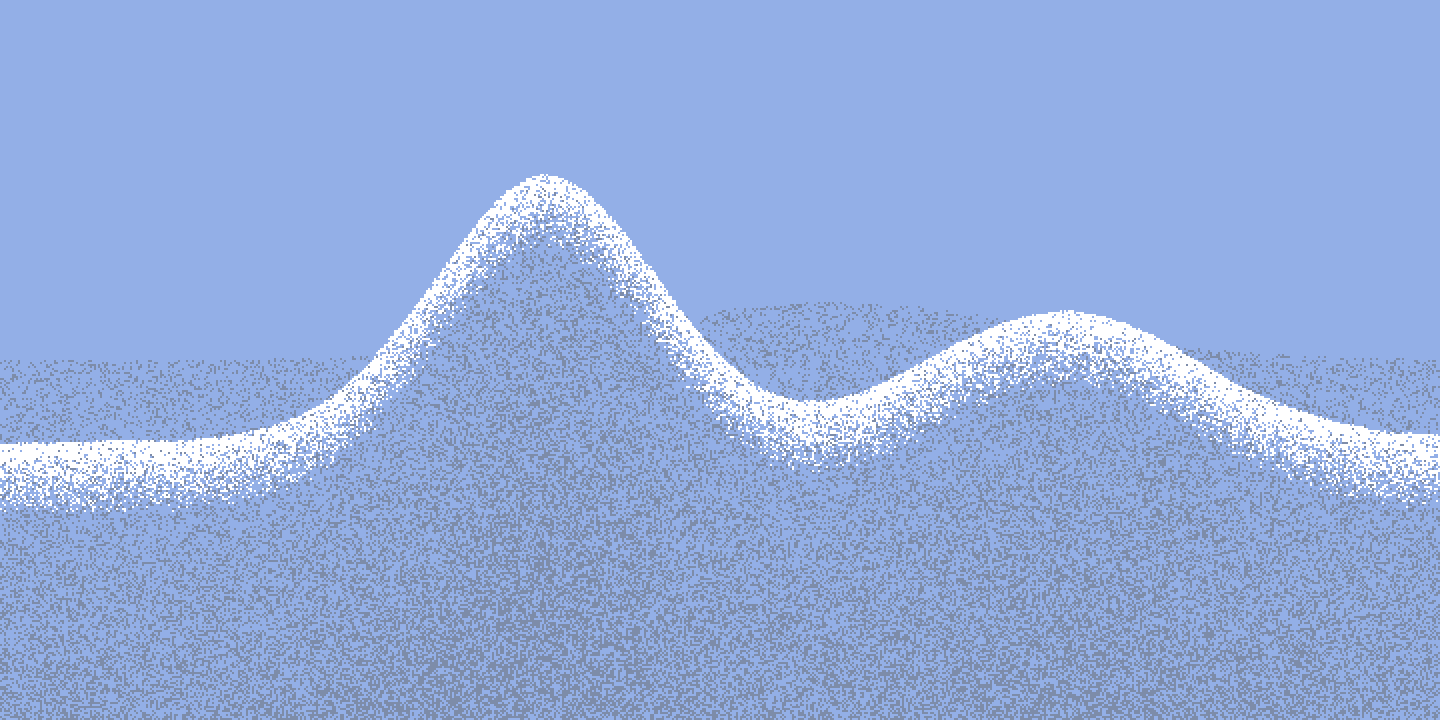
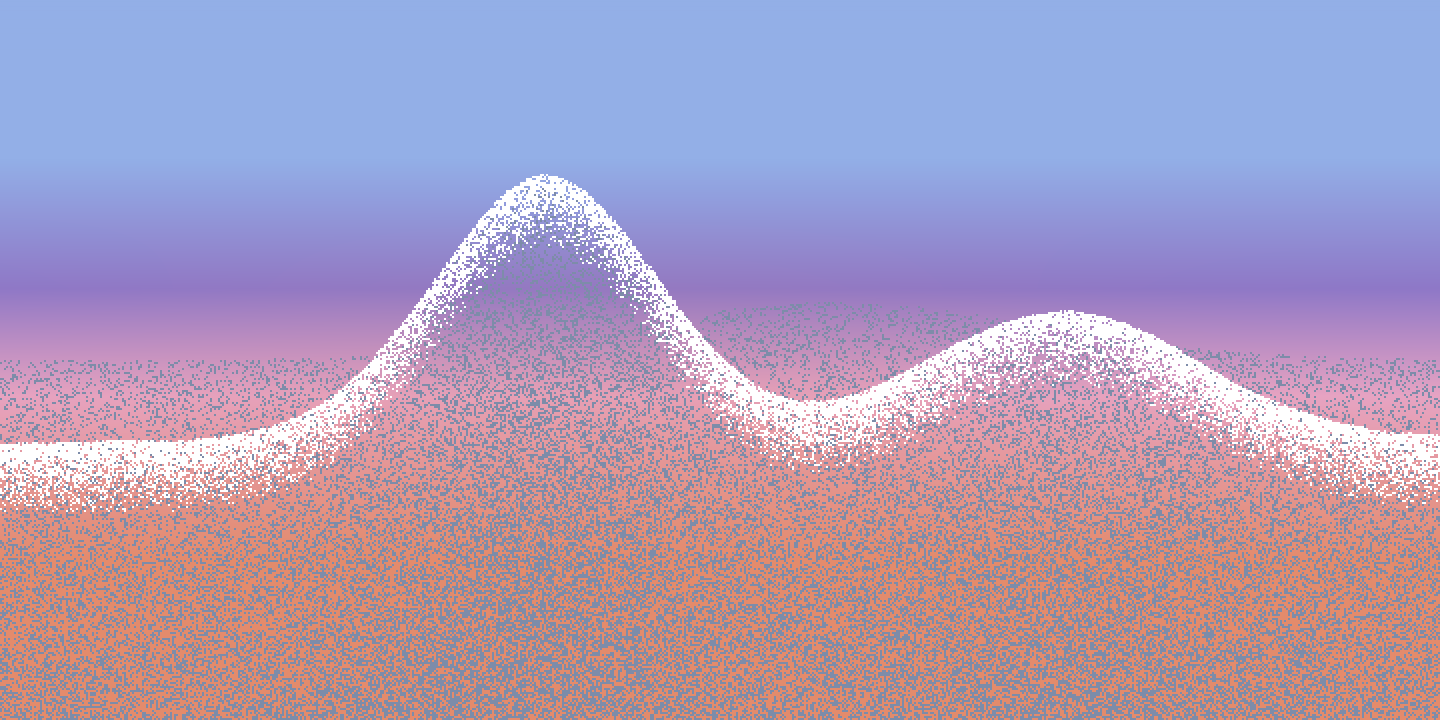
Blend the mountain sky from blue into dusk.
The top stays the same blue so the white logo still reads. Purple, pink, and orange come in toward the horizon behind the peaks.

diff --git a/design-language/instrument-calm/assets/ambient-dither/make_ambient.py b/design-language/instrument-calm/assets/ambient-dither/make_ambient.py
@@ -40,6 +40,27 @@ def paint(field, layers):
     return img
 
 
+def dusk_sky():
+    """Blue at the top, then purple, pink, and orange toward the horizon."""
+    xn, yn = grids()
+    blue = np.array(SKY, np.float32)
+    purple = np.array(hx("#8E78C8"), np.float32)
+    pink = np.array(hx("#E7A4C4"), np.float32)
+    orange = np.array(hx("#E38B6C"), np.float32)
+    stops = [(0.00, blue), (0.22, blue), (0.40, purple), (0.55, pink), (0.78, orange)]
+    sky = np.zeros((H, W, 3), np.float32)
+    for (y0, c0), (y1, c1) in zip(stops, stops[1:]):
+        t = np.clip((yn - y0) / (y1 - y0), 0, 1)
+        band = (yn >= y0) & (yn <= y1)
+        mix = c0 * (1 - t)[..., None] + c1 * t[..., None]
+        sky[band] = mix[band]
+    sky[yn >= stops[-1][0]] = orange
+    # A little extra warmth low and toward the middle, the way dusk pools.
+    glow = np.exp(-((xn - 0.42) ** 2) / 0.12) * np.clip((yn - 0.28) / 0.45, 0, 1)
+    sky = sky * (1 - 0.28 * glow)[..., None] + orange * (0.28 * glow)[..., None]
+    return np.clip(sky, 0, 255).astype(np.uint8)
+
+
 def mountain():
     xn, yn = grids()
     n = smooth_noise((H, W), scale=280, seed=51, octaves=4)
@@ -58,7 +79,10 @@ def mountain():
     slate = np.maximum(slate, np.where(far_in, 0.16 + 0.08 * n, 0))
     cap = np.clip((ridge + 0.09 - yn) / 0.09, 0, 1)
     snow = np.where(yn > ridge - 0.012, cap * (0.75 + 0.25 * n), 0)
-    return paint(SKY, [(slate, SLATE, 53), (snow, WHITE, 54)])
+    img = Image.fromarray(dusk_sky())
+    img = apply_ink(img, dither_mask(np.clip(slate, 0, 1), "stipple", 53, cell=CELL), SLATE)
+    img = apply_ink(img, dither_mask(np.clip(snow, 0, 1), "stipple", 54, cell=CELL), WHITE)
+    return img
 
 
 def forest():
